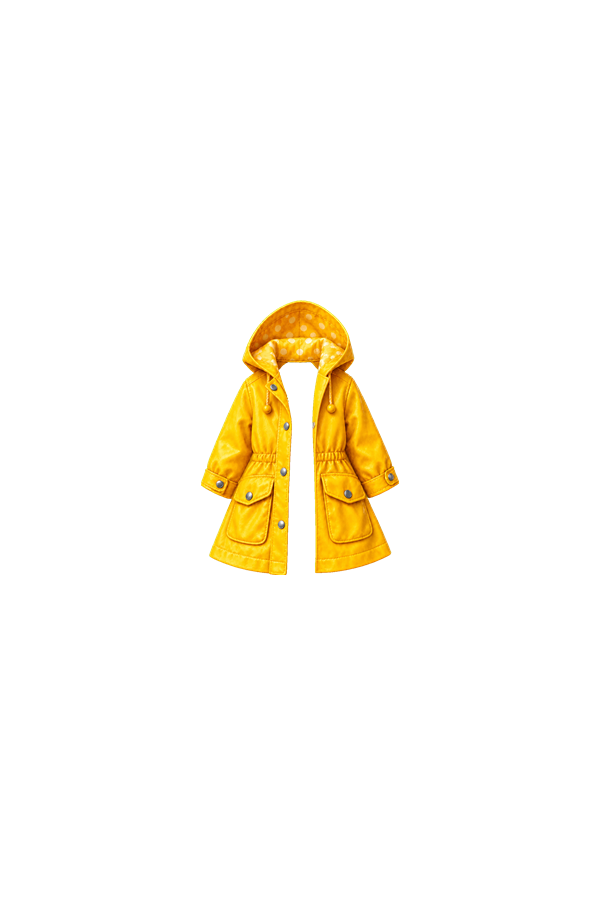
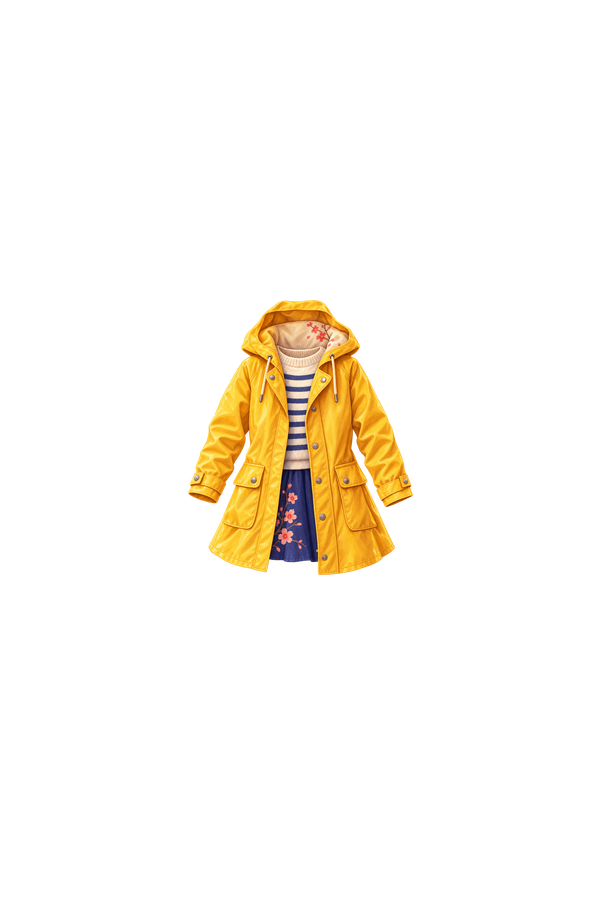
Remove boy/girl style picker; fix rain jacket's short sleeves
Removed the Style (Girl/Boy) section from the avatar customizer per
explicit request — kids pick what they like directly. The underlying
character.style field stays (defaults to 'girl', still referenced by
a couple of small SVG face details and the character-<style> CSS
class), just the picker UI is gone; character-drawer sections
renumbered 01-04 accordingly.

Rain jacket: regenerated one of the 5 "canonical, do not regenerate"
reference assets — overridden here because its sleeves were visibly
shorter than the new painterly body's arms, leaving a gap of bare
skin at the wrist that no other jacket has. Used the well-fitting
trench coat as the style/proportion reference instead of the rain
jacket's own (short-sleeved) prior version, with an explicit
full-length-sleeve instruction, so the issue doesn't reproduce.

Changed region(s): [[0.3, 0.3111, 0.69, 0.6533]]

diff --git a/src/LittleJetterApp.tsx b/src/LittleJetterApp.tsx
@@ -677,11 +677,10 @@ export function LittleJetterApp() {
                 <aside className="little-look-preview">
                   <div className="little-closet-heading"><p className="little-kicker">02 Avatar</p><strong>Make your Little Jetter.</strong></div>
                   <div className="little-character-drawers" aria-label="Build your doll">
-                    <details open><summary><span>01</span><strong>Style</strong><b>Open / close</b></summary><div className="little-character-options little-style-options">{characterOptions.style.map((option) => <button type="button" aria-pressed={character.style === option.id} onClick={() => { setCharacter((current) => ({ ...current, style: option.id })); triggerCelebration(12); }} key={option.id}>{option.label}</button>)}</div></details>
-                    <details><summary><span>02</span><strong>Hairstyle</strong><b>Open / close</b></summary><div className="little-character-options little-hairstyle-options">{characterOptions.hairStyle.map((option) => <button type="button" aria-pressed={character.hairStyle === option.id} onClick={() => { setCharacter((current) => ({ ...current, hairStyle: option.id })); triggerCelebration(12); }} key={option.id}><span className={`little-hair-icon hair-${option.id}`} aria-hidden="true" /><strong>{option.label}</strong></button>)}</div></details>
-                    <details><summary><span>03</span><strong>Skin</strong><b>Open / close</b></summary><div className="little-character-options little-swatch-options">{characterOptions.skin.map((option) => <button type="button" aria-label={`${option.id} skin`} aria-pressed={character.skin === option.id} style={{ '--choice-color': option.color } as React.CSSProperties} onClick={() => { setCharacter((current) => ({ ...current, skin: option.id })); triggerCelebration(12); }} key={option.id} />)}</div></details>
-                    <details><summary><span>04</span><strong>Hair color</strong><b>Open / close</b></summary><div className="little-character-options little-swatch-options">{characterOptions.hair.map((option) => <button type="button" aria-label={`${option.id} hair`} aria-pressed={character.hair === option.id} style={{ '--choice-color': option.color } as React.CSSProperties} onClick={() => { setCharacter((current) => ({ ...current, hair: option.id })); triggerCelebration(12); }} key={option.id} />)}</div></details>
-                    <details><summary><span>05</span><strong>Eyes</strong><b>Open / close</b></summary><div className="little-character-options little-swatch-options">{characterOptions.eyes.map((option) => <button type="button" aria-label={`${option.id} eyes`} aria-pressed={character.eyes === option.id} style={{ '--choice-color': option.color } as React.CSSProperties} onClick={() => { setCharacter((current) => ({ ...current, eyes: option.id })); triggerCelebration(12); }} key={option.id} />)}</div></details>
+                    <details open><summary><span>01</span><strong>Hairstyle</strong><b>Open / close</b></summary><div className="little-character-options little-hairstyle-options">{characterOptions.hairStyle.map((option) => <button type="button" aria-pressed={character.hairStyle === option.id} onClick={() => { setCharacter((current) => ({ ...current, hairStyle: option.id })); triggerCelebration(12); }} key={option.id}><span className={`little-hair-icon hair-${option.id}`} aria-hidden="true" /><strong>{option.label}</strong></button>)}</div></details>
+                    <details><summary><span>02</span><strong>Skin</strong><b>Open / close</b></summary><div className="little-character-options little-swatch-options">{characterOptions.skin.map((option) => <button type="button" aria-label={`${option.id} skin`} aria-pressed={character.skin === option.id} style={{ '--choice-color': option.color } as React.CSSProperties} onClick={() => { setCharacter((current) => ({ ...current, skin: option.id })); triggerCelebration(12); }} key={option.id} />)}</div></details>
+                    <details><summary><span>03</span><strong>Hair color</strong><b>Open / close</b></summary><div className="little-character-options little-swatch-options">{characterOptions.hair.map((option) => <button type="button" aria-label={`${option.id} hair`} aria-pressed={character.hair === option.id} style={{ '--choice-color': option.color } as React.CSSProperties} onClick={() => { setCharacter((current) => ({ ...current, hair: option.id })); triggerCelebration(12); }} key={option.id} />)}</div></details>
+                    <details><summary><span>04</span><strong>Eyes</strong><b>Open / close</b></summary><div className="little-character-options little-swatch-options">{characterOptions.eyes.map((option) => <button type="button" aria-label={`${option.id} eyes`} aria-pressed={character.eyes === option.id} style={{ '--choice-color': option.color } as React.CSSProperties} onClick={() => { setCharacter((current) => ({ ...current, eyes: option.id })); triggerCelebration(12); }} key={option.id} />)}</div></details>
                   </div>
                   <div className={`little-avatar little-doll-stage character-${character.style} ${dropActive ? 'is-drop-active' : ''}`} onDragEnter={() => setDropActive(true)} onDragLeave={() => setDropActive(false)} onDragOver={(event) => event.preventDefault()} onDrop={dropOnDoll} style={{ '--eye-color': characterOptions.eyes.find((option) => option.id === character.eyes)?.color, '--hair-color': characterOptions.hair.find((option) => option.id === character.hair)?.color } as React.CSSProperties} aria-label={`Outfit: ${chosen('tops').name}, ${chosen('bottoms').name}, ${chosen('layers').name}, ${chosen('shoes').name}, and ${chosen('accessories').name}`}>
                     <div className={`little-doll-destination scene-${selected.id}`} style={{ '--scene-color': selected.color } as React.CSSProperties} aria-hidden="true">{selected.id === 'tokyo' && <img src="/little-jetter/tokyo-doll-backdrop.png" alt="" />}<span>{selected.city}</span><i /><b /></div>

diff --git a/scripts/fix-rain-jacket.ts b/scripts/fix-rain-jacket.ts
@@ -1,0 +1,43 @@
+// Regenerates the rain jacket — one of the 5 "canonical, do not regenerate"
+// Tokyo reference assets, overridden here because its sleeves are visibly
+// shorter than the body's arms (a gap of bare skin at the wrist that doesn't
+// happen with any other jacket), reported directly by the user. Uses the
+// well-fitting trench coat as the style/proportion reference instead of
+// itself, so the sleeve-length issue doesn't reproduce.
+// Run with: npx tsx scripts/fix-rain-jacket.ts
+import path from 'node:path';
+import dotenv from 'dotenv';
+import { generateClosetAsset } from '../server/closet/generateClosetAsset';
+import { buildContactSheet } from '../server/closet/contactSheet';
+import type { ContactSheetCell } from '../server/closet/contactSheet';
+
+dotenv.config({ path: '.env.local' });
+
+const PUBLIC_ROOT = path.resolve(process.cwd(), 'public');
+function urlToLocalPath(url: string): string {
+  return path.join(PUBLIC_ROOT, url.replace(/^\//, ''));
+}
+
+async function main() {
+  const result = await generateClosetAsset({
+    destinationId: 'tokyo',
+    slot: 'outerwear',
+    itemId: 'rain',
+    itemPrompt: 'A bright yellow hooded rain slicker with snap-button front closure and two patch pockets, worn open over a top. The sleeves must be full-length, reaching all the way to the wrist with no gap of bare arm showing past the cuff — match the same sleeve-to-body proportion as a standard child\'s jacket, not shortened.',
+    referenceAsset: '/little-jetter/catalog/tokyo/trench-coat/default.png',
+    quality: 'high',
+    regenerate: true,
+  });
+
+  console.log(result.qc.ok ? `done -> ${result.asset.url}` : `QC FAILED: ${result.qc.issues.join('; ')}`);
+  if (result.qc.warnings.length > 0) console.log('warnings:', result.qc.warnings.join('; '));
+
+  const cells: ContactSheetCell[] = [
+    { label: 'rain (new)', imagePath: urlToLocalPath(result.asset.url), group: 'outerwear' },
+    { label: 'trench-coat (reference)', imagePath: path.join(PUBLIC_ROOT, 'little-jetter/catalog/tokyo/trench-coat/default.png'), group: 'outerwear' },
+  ];
+  await buildContactSheet(cells, path.resolve(process.cwd(), 'docs', 'qa', 'rain-fix-check.png'));
+  console.log('contact sheet written');
+}
+
+main().catch((e) => { console.error(e); process.exitCode = 1; });
